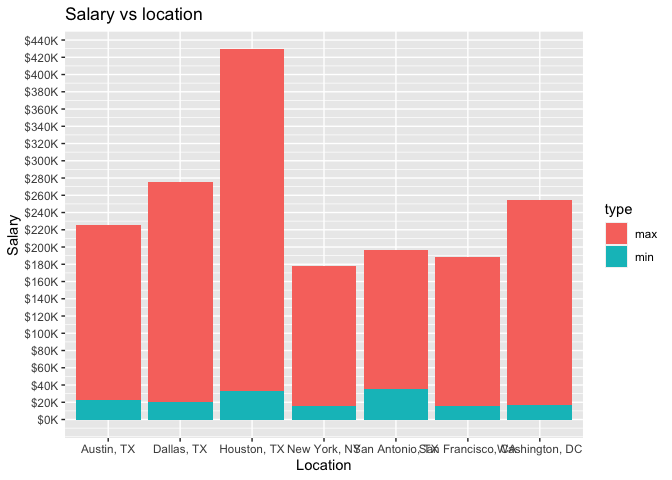
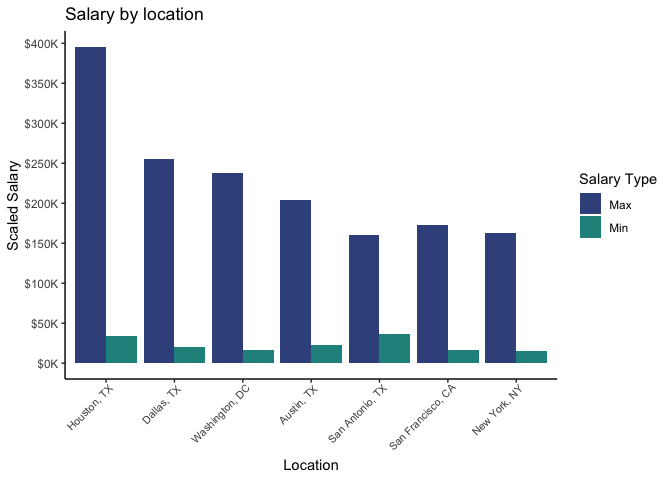
Modified visualization for job location by salary with the uniform color scheme a

diff --git a/EDA/Job_Types.md b/EDA/Job_Types.md
@@ -140,7 +140,7 @@ file.
 # Analysing the number of jobs in every category by taking the ds\_jobs\_bucket.So, here we have five categories Data Analyst, Data Engineer, Data Scientist, Machine Learning and Statistics. Finding out how many of these fall into different industries. In our data frame, we have 23 industries for which we can map these job categories.
 
 ``` r
-df <- data.frame(table(ds_jobs$industry,ds_jobs$job_category))
+df <- data.frame(table(ds_jobs$industry,ds_jobs$job_category,ds_jobs$job_type))
 
 p <- ggplot(data=df, aes(x=Var2, y=Freq, fill=Var1)) + geom_bar(stat="identity") +
   labs(title = "Job category vs Industry",
@@ -184,6 +184,12 @@ ggplot(table_date_posted, aes(x = Var1, y = Freq)) +
 # Salary by location
 
 ``` r
+library(viridis)
+```
+
+    ## Loading required package: viridisLite
+
+``` r
 df <- ds_jobs %>%
              group_by(metro_location) %>%
              summarise(min = min(min_scaled_salary, na.rm = TRUE),max = max(max_scaled_salary, na.rm = TRUE))
@@ -192,9 +198,6 @@ df <- ds_jobs %>%
     ## `summarise()` ungrouping output (override with `.groups` argument)
 
 ``` r
-             #filter(ds_jobs$min_scaled_salary == min(ds_jobs$min_scaled_salary))
-
-
 salary_data_loc <- df %>% pivot_longer(
                 cols = c(min, max),
                 names_to = "type",
@@ -203,15 +206,19 @@ salary_data_loc <- df %>% pivot_longer(
 )
 
 
-p <-ggplot(salary_data_loc, aes(metro_location, salary))
-p +geom_bar(stat = "identity", aes(fill = type))+
-  scale_y_continuous(
-    breaks = seq(0,11000000,20000),
+p <-ggplot(salary_data_loc, aes(x = reorder(metro_location, -salary), y = salary, fill = type)) 
+  p + geom_bar(stat = "identity", position = 'dodge')+
+    labs(title = "Salary by location",
+       x = "Location",
+       y = "Scaled Salary") +
+    scale_fill_viridis(discrete = TRUE, begin = 0.25, end = 0.5, name = "Salary Type",
+                     labels = c("Max", "Min")) + 
+    scale_y_continuous(
+    breaks = seq(0,1100000,50000),
     labels = function(x){paste0('$', x/1000, 'K')}
   ) +
-  labs(title = "Salary vs location",
-       x = "Location",
-       y = "Salary") 
+    theme_classic() +
+  theme( axis.text.x = element_text(angle = 45, vjust = 1, hjust=0.95, size = 8))
 ```
 
 ![](Job_Types_files/figure-gfm/unnamed-chunk-10-1.png)<!-- -->
